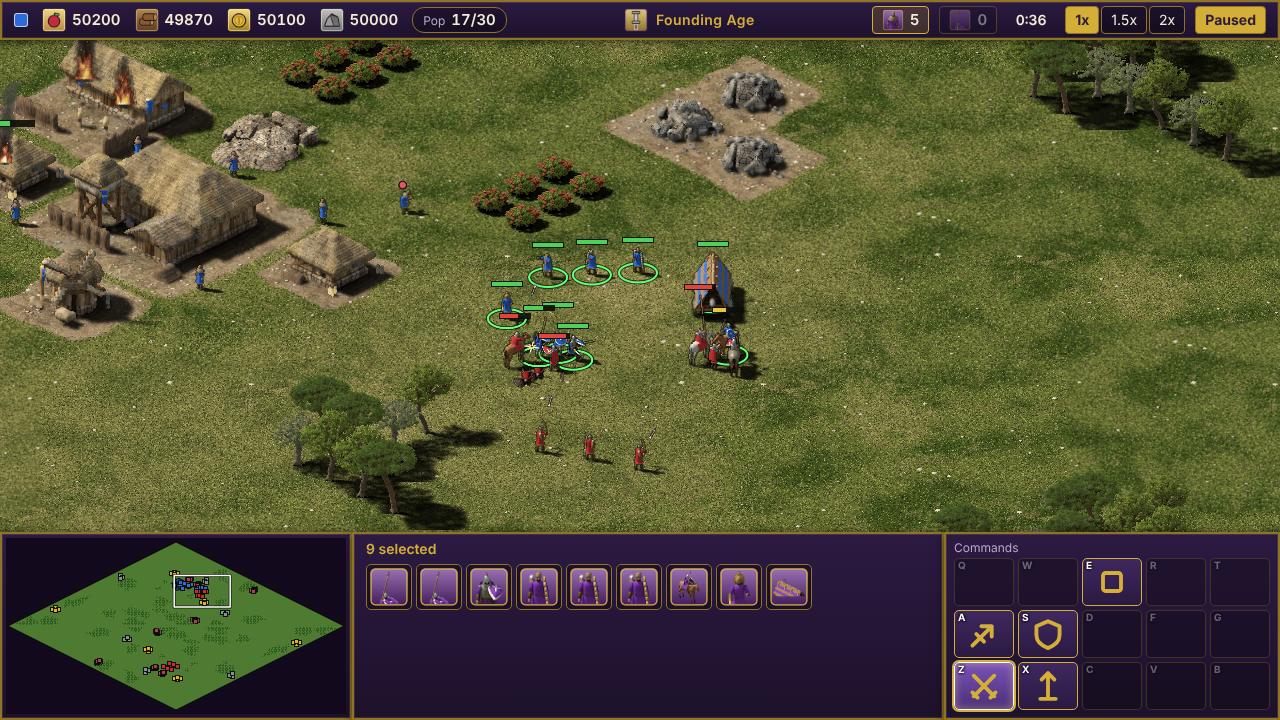
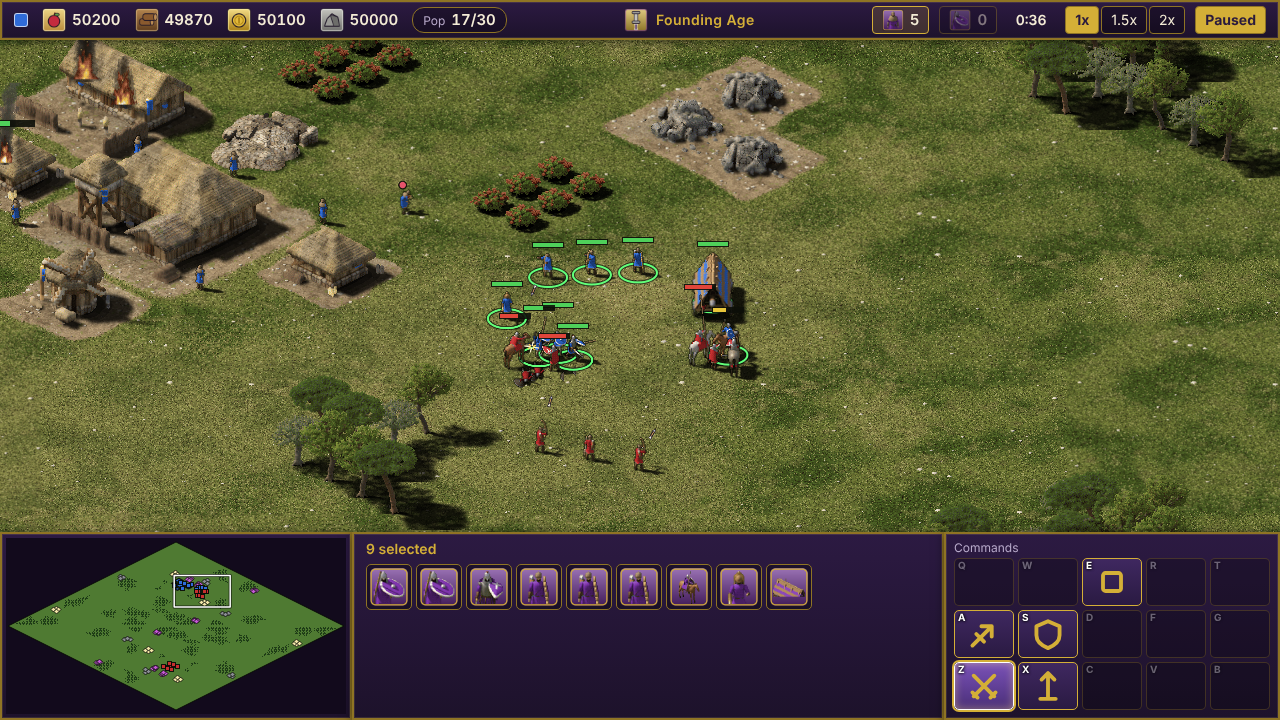
Portrait crop keeps the head beside a wide shield; art-shots stops its own server; battle screenshots
- bustBox: the body starts at rows 15% as wide as the widest (and at least 4 px), so the Spearman's helmeted
  head next to his shield is in the portrait (at 30% the shield's width cut it off).
- art-shots starts its preview server in its own process group and stops the whole group (npx left the vite
  process holding the port, which is how a stale server got photographed).
- docs/screenshots 14, 17, 18, 19, 20 regenerated with `node scripts/art-shots.mjs <dir> battle`: new minimap
  node marks, crowd bars at 0.5x, head-and-torso portraits.

Claude-Session: https://claude.ai/code/session_01Nz5RLKB9UDBctQ5JBC1X2j

diff --git a/src/client/art/sheet/manifest.ts b/src/client/art/sheet/manifest.ts
@@ -390,8 +390,9 @@ export function createSheetManifest(options: SheetManifestOptions = {}): SheetMa
 
 /**
  * The head-and-torso box of a standing figure (RGBA, alpha already 0 or 255), for a portrait that a weapon does not
- * fill. The body starts at the first of two rows at least BODY_ROW of the widest row wide (a spear shaft or a raised
- * sword above the head is a few pixels wide and is skipped); the bust is the top BUST of the body from there. Columns
+ * fill. The body starts at the first of two rows at least BODY_ROW of the widest row (and BODY_MIN_PX) wide (a spear
+ * shaft or a raised sword above the head is two or three pixels wide and is skipped, a head is wider, even next to a
+ * shield as wide as the Spearman's); the bust is the top BUST of the body from there. Columns
  * are kept where the bust rows hold at least BODY_COLUMN of its height in figure pixels (a spear crossing the chest is
  * cut), widened to at least the bust's height times 0.8 so the head is not squeezed. Returns the whole image when it
  * cannot tell.
@@ -410,7 +411,8 @@ export function bustBox(data: Uint8ClampedArray, w: number, h: number): { x: num
   while (bottom > 0 && rowCount[bottom] === 0) bottom--;
   let top = -1;
   for (let r = 0; r + 1 < h; r++) {
-    if (rowCount[r]! >= BODY_ROW * widest && rowCount[r + 1]! >= BODY_ROW * widest) {
+    const min = Math.max(BODY_MIN_PX, BODY_ROW * widest);
+    if (rowCount[r]! >= min && rowCount[r + 1]! >= min) {
       top = r;
       break;
     }
@@ -436,7 +438,9 @@ export function bustBox(data: Uint8ClampedArray, w: number, h: number): { x: num
   }
   return { x: x0, y: top, w: x1 - x0 + 1, h: bh };
 }
-const BODY_ROW = 0.3;
+const BODY_ROW = 0.15;
+/** A weapon shaft is at most this wide in the sheet's pixels; a head is wider. */
+const BODY_MIN_PX = 4;
 const BUST = 0.6;
 const BODY_COLUMN = 0.2;
 

diff --git a/src/bot/ai/army.ts b/src/bot/ai/army.ts
@@ -312,7 +312,8 @@ const plain = (target: BuildingInfo | UnitInfo): WavePlan => ({ target, mode: 's
 /**
  * Raid (hard's first wave): every unit gets an explicit `attack` on the exposed enemy villager nearest to it (out of
  * every Town Center's reach), re-chosen when its target dies or becomes covered; failing that, on villagers under the
- * arrows when the fight model says the raid kills them at a cost of at most one unit in four. Returns false when there
+ * arrows when the fight model says the raid kills them losing at most one raider per two villagers (never all of it).
+ * Returns false when there
  * is no such villager (the wave then raids an outlying building it razes in time, or goes home).
  */
 function orderRaid(d: AiDecision, units: readonly UnitInfo[], ctx: WaveContext): boolean {
